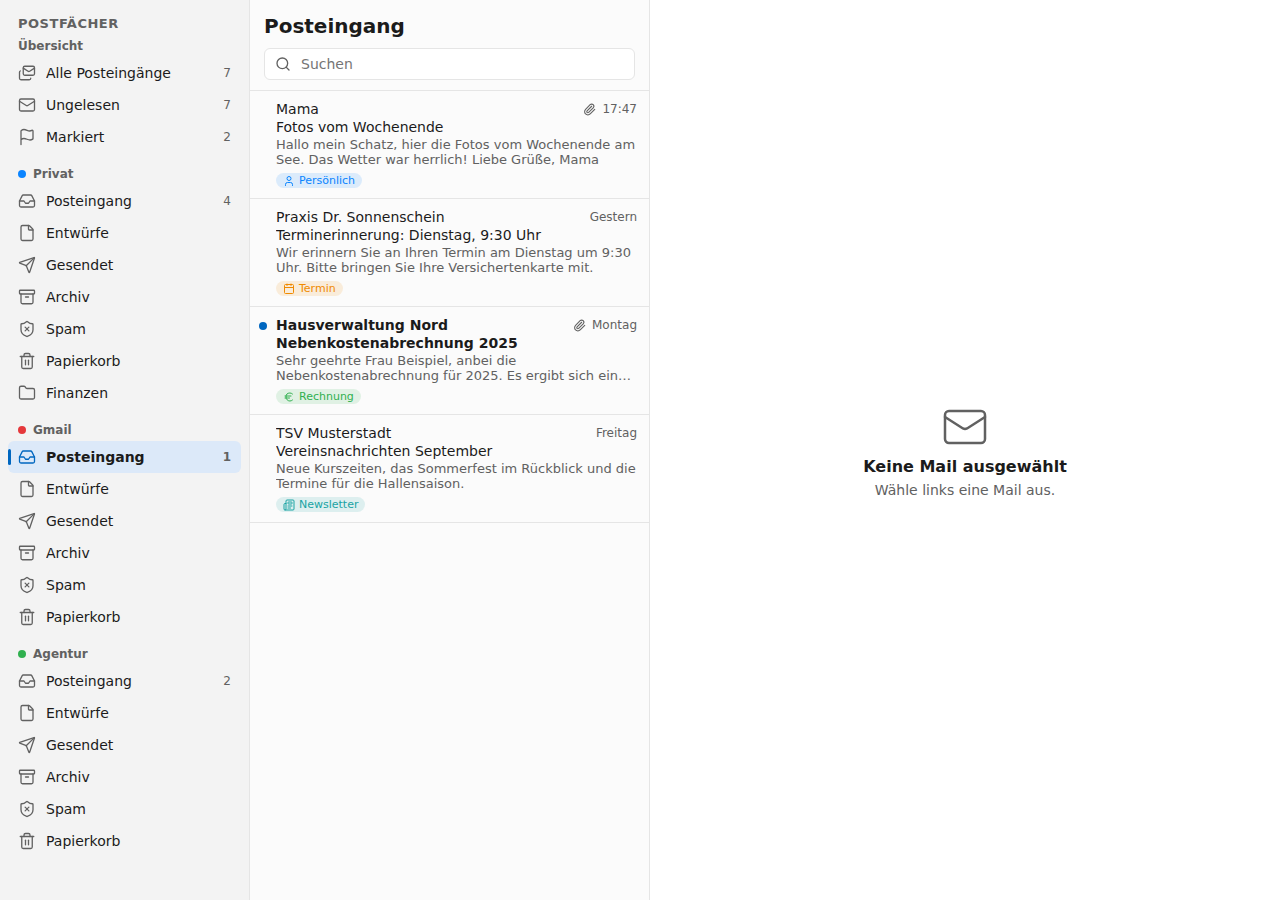
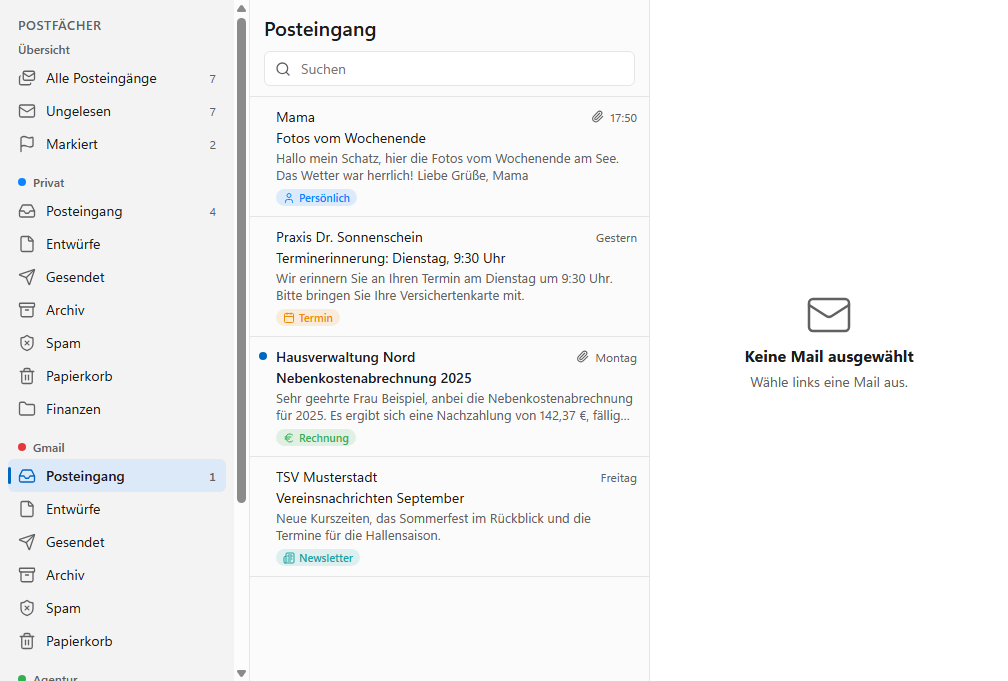
Windows-CI grün: echte Windows-Screenshots, Hardware und Rollenvorschlag dokumentiert
Claude-Session: https://claude.ai/code/session_01Gux4hQJzbLjwfdF1d17hjT

diff --git a/docs/ENTWICKLUNGSSTAND.md b/docs/ENTWICKLUNGSSTAND.md
@@ -5,13 +5,13 @@ nicht erst am Ende einer Phase. Abgeschlossene Phasen stehen zusätzlich in `CHA
 
 **Zuletzt aktualisiert:** 30.09.2026
 **Aktueller Fokus:** Windows-App (`web/`), danach Server mit Browser – Roadmap: `docs/ROADMAP-WINDOWS.md`
-**Aktuelle Phase:** W1 – Fundament Windows (umgesetzt, lokal getestet; erster Windows-CI-Lauf steht aus)
+**Aktuelle Phase:** W1 – Fundament Windows (fertig, auf Windows in der CI geprüft; Installation beim Nutzer steht aus)
 
 ## Überblick
 
 | Phase | Status |
 |---|---|
-| **W1 – Fundament Windows** | 🟢 fertig: 65 Unit-Tests + 2 E2E-Tests grün (Linux); Windows-CI steht aus |
+| **W1 – Fundament Windows** | 🟢 fertig: 65 Unit-Tests + 2 E2E-Tests grün unter Linux **und Windows**; Installer wird gebaut |
 | W2 – Ein Konto lesen (IMAP, iCloud) | ⚪ offen |
 | W3–W5, S1 (Server & Browser) | ⚪ offen |
 | iPad/Mac Phase 1 | ⏸ fertig und im Simulator abgenommen, **ruht** (siehe unten) |
@@ -27,15 +27,19 @@ nicht erst am Ende einer Phase. Abgeschlossene Phasen stehen zusätzlich in `CHA
   funktioniert ohne Neubau in Node und Electron.
 - Screenshots: `docs/screenshots/windows-*.png`
 
+- **Windows-CI (Lauf #1, windows-latest): auf Anhieb grün** – Typprüfung, Tests, E2E mit der echten App,
+  NSIS-Installer (~120 MB). Screenshots mit echter Windows-Darstellung (Segoe UI) in `docs/screenshots/windows-*.png`.
+
 ## Windows – noch ungeprüft
-- **Auf echtem Windows:** weder CI-Lauf noch Installation beim Nutzer bisher. Insbesondere: NSIS-Installer,
-  Windows-DPAPI (`safeStorage`), Segoe-Schrift, hoher DPI-Wert, dunkler Modus.
+- **Installation beim Nutzer** (SmartScreen, Startmenü, Deinstallation), hoher DPI-Wert, dunkler Modus,
+  Windows-DPAPI (`safeStorage`) auf einem echten Benutzerkonto.
 - `EncryptedFileSecretStore` mit echter DPAPI (wird erst ab W2 genutzt).
 
 ## Nächste Schritte
-1. Windows-CI auswerten, Installer vom Nutzer testen lassen (`docs/WINDOWS-TESTEN.md`).
+1. Installer vom Nutzer testen lassen (`docs/WINDOWS-TESTEN.md`).
 2. Phase W2: IMAP-Anbindung (imapflow), Konto-Einrichtung iCloud, MIME, sichere HTML-Anzeige.
-3. Offene Frage an den Nutzer für S1: Heimserver-Hardware / Docker?
+3. Hardware ist bekannt (N97, PC mit RTX 2070 Super, i5-14600K – Rollenvorschlag in `docs/ROADMAP-WINDOWS.md`).
+   Offen: Alltags-PC, Betriebssystem/Docker auf dem N97.
 
 ## iPad/Mac (ruht)
 Grund: Ohne Mac und ohne bezahlten Apple-Developer-Account (99 €/Jahr) kann der Nutzer die App nicht auf
@@ -61,7 +65,7 @@ App Intents, großes RAM-Limit für lokale Modelle), lassen sich derzeit nicht a
 
 ## Offene Entscheidungen (aus Spezifikation, Abschnitt 12)
 
-- Heimserver: Hardware, Betriebssystem, Docker? (für Phase S1)
+- Heimserver: Rollen der drei Rechner, Betriebssystem/Docker auf dem N97 (für Phase S1)
 
 - App-Name (Arbeitsname „StinkyMa“), Bundle-ID `de.stinkyma.*` ist Platzhalter
 - Private Nutzung oder App-Store-Release
@@ -110,3 +114,5 @@ App Intents, großes RAM-Limit für lokale Modelle), lassen sich derzeit nicht a
 - Phase W1 umgesetzt (siehe Überblick). Gefundener und behobener Fehler beim E2E-Test: Escape schloss das
   Rechtsklick-Menü nicht, weil das App-weite Tastenkürzel ein Neu-Rendern auslöste, das den Listener des
   Menüs während desselben Ereignisses entfernte. Menü behandelt Tasten jetzt selbst (inkl. ↑/↓).
+- Erster Windows-CI-Lauf auf Anhieb grün, Installer-Artefakt verfügbar. Hardware des Nutzers erfasst
+  (N97 12 GB, PC mit RTX 2070 Super/32 GB, i5-14600K/32 GB) und Rollen vorgeschlagen.

diff --git a/docs/ROADMAP-WINDOWS.md b/docs/ROADMAP-WINDOWS.md
@@ -42,6 +42,17 @@ Die Phasen folgen der Spezifikation (Abschnitt 9), angepasst an Windows. ★ = V
 | **S1 – Server & Browser** | `apps/server`: HTTP-API + gleiche Oberfläche im Browser, Login, Docker Compose, Zugriff nur im Heimnetz/VPN | offen |
 | danach | Spezifikation Phasen 6–15 (eigene Modelle, Assistent, Alleinstellungsmerkmale …) für Windows & Server | offen |
 
+## Hardware des Nutzers (Stand 30.09.2026)
+
+| Rechner | Ausstattung | Vorgeschlagene Rolle |
+|---|---|---|
+| **Intel N97** | 12 GB DDR5 (geteilt mit der Grafik) | **Dauerläufer-Server** (sparsam): Mail-Sync rund um die Uhr, Datenbank, Web-Oberfläche, später Push (Phase 13). KI nur für kleine Aufgaben (1–3B-Modelle auf der CPU, langsam, eher nachts). |
+| **PC mit RTX 2070 Super** | 8 GB VRAM, 32 GB DDR4, 1 TB M.2 | **KI-Server** mit Ollama/llama.cpp: 7–8B-Modelle (4-Bit) passen komplett in die Grafikkarte und laufen flott; 13B nur teilweise auf der GPU (spürbar langsamer). Wenn er aus ist, stellt die App KI-Aufgaben zurück (5.3) – nie Fallback in die Cloud. |
+| **Intel i5-14600K** | 32 GB, 2 TB M.2 | Stark genug für Windows-App plus lokale Modelle auf der CPU (7B mit einigen Wörtern pro Sekunde). Rolle hängt davon ab, ob das der Alltags-PC ist. |
+
+Alle drei zusammen decken die Spezifikation gut ab: „Eigener Server“ (5.3) und Server-Version (11.3) laufen im Heimnetz.
+
 ## Offene Fragen an den Nutzer
-- Heimserver: Welche Hardware/Betriebssystem, ist Docker vorhanden? (für S1)
+- Welcher Rechner ist der Windows-Alltags-PC? Welche laufen dauerhaft?
+- Betriebssystem auf dem N97 (Linux/Windows)? Docker vorhanden?
 - App-Name (Arbeitsname „StinkyMa“)
